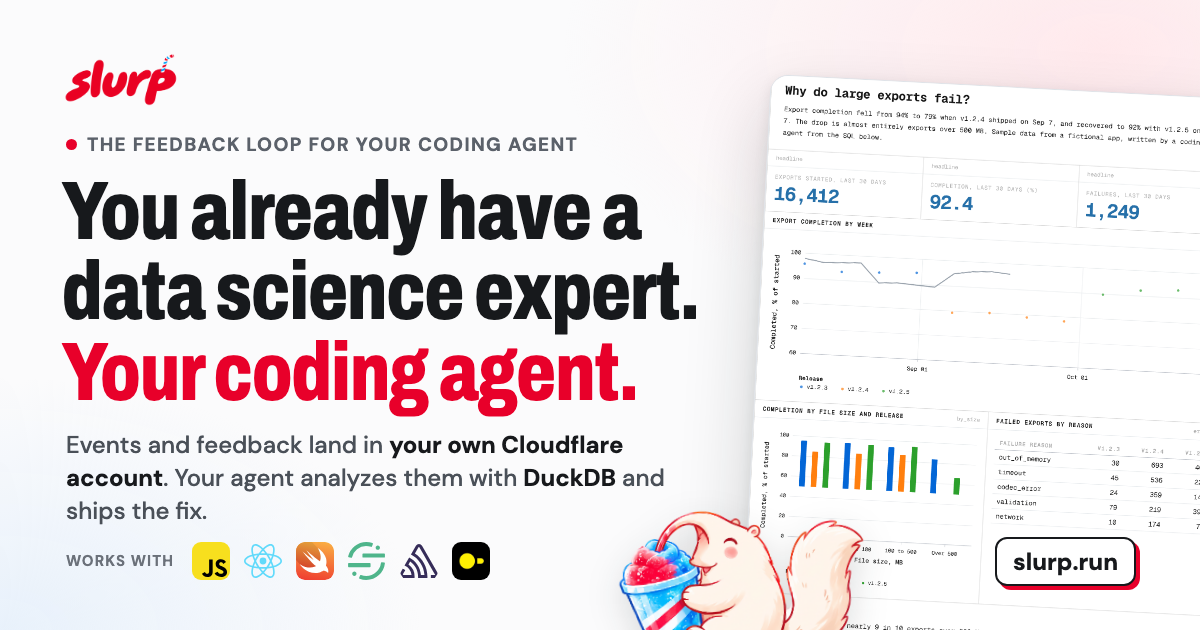
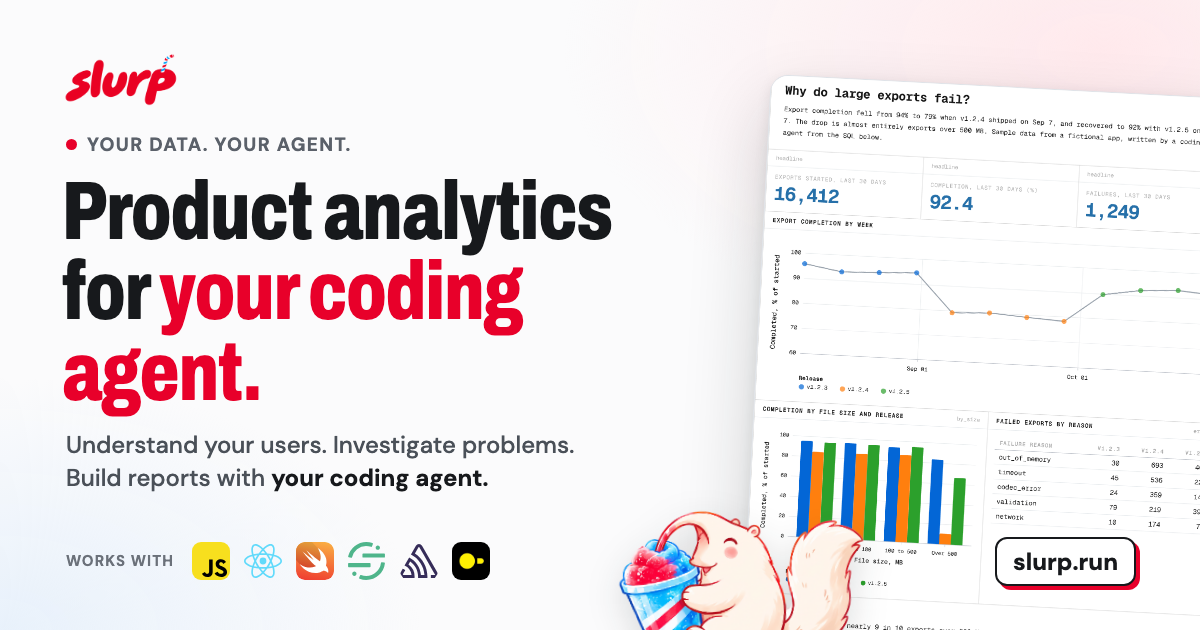
Clarify landing page positioning and refresh social preview

diff --git a/apps/site/scripts/og-card.html b/apps/site/scripts/og-card.html
@@ -23,9 +23,9 @@ h1 .hot { color: #e8002a; }
 .url { position: absolute; right: 64px; bottom: 44px; font-size: 24px; font-weight: 800; color: #17191c; background: #fff; border: 2px solid #17191c; border-radius: 12px; padding: 7px 16px; box-shadow: 4px 4px 0 #e8002a; }
 </style></head><body>
 <img class="logo" src="../../../packages/web-shared/assets/logo.png" alt="Slurp">
-<div class="eyebrow"><i></i>The feedback loop for your coding agent</div>
-<h1>You already have a<br>data science expert.<br><span class="hot">Your coding agent.</span></h1>
-<p class="sub">Events and feedback land in <b>your own Cloudflare account</b>. Your agent analyzes them with <b>DuckDB</b> and ships the fix.</p>
+<div class="eyebrow"><i></i>Your data. Your agent.</div>
+<h1>Product analytics<br>for <span class="hot">your coding<br>agent.</span></h1>
+<p class="sub">Understand your users. Investigate problems.<br>Build reports with <b>your coding agent.</b></p>
 <div class="works"><span>Works with</span>
   <img src="../../../packages/web-shared/logos/javascript.svg" alt=""><img src="../../../packages/web-shared/logos/reactnative.svg" alt=""><img src="../../../packages/web-shared/logos/swift.svg" alt=""><img src="../../../packages/web-shared/logos/segment.svg" alt=""><img src="../../../packages/web-shared/logos/sentry.svg" alt=""><img src="../src/assets/duckdb.jpeg" alt="">
 </div>
